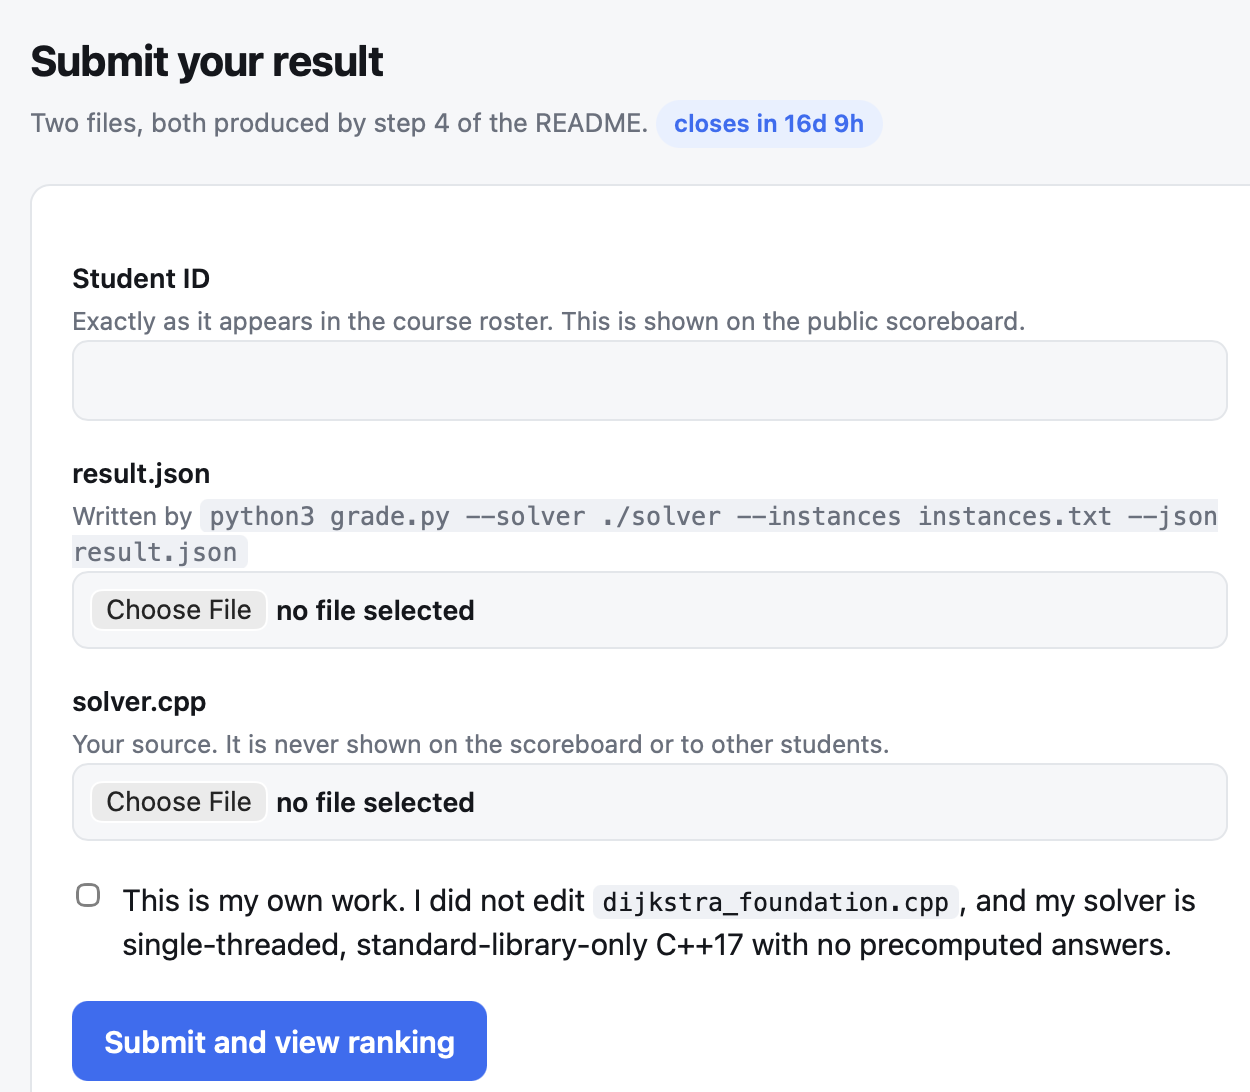
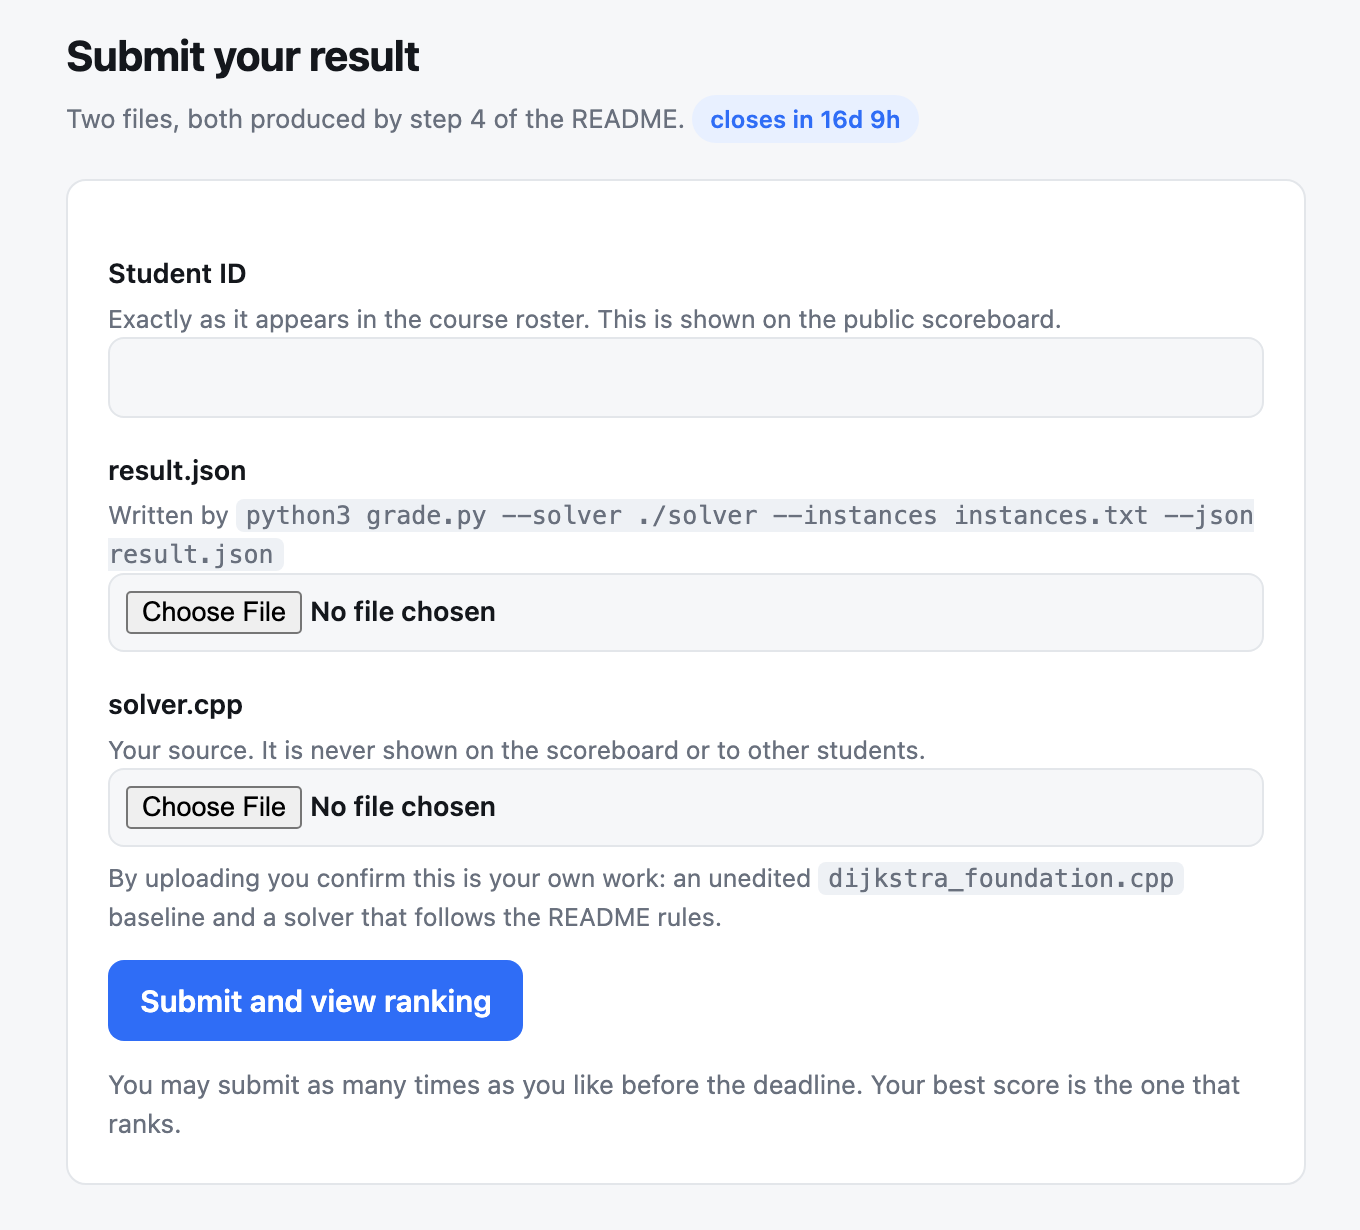
Drop the honour-code checkbox from the upload walkthrough
The scoreboard form now shows a one-line note instead of a required
checkbox; update step 4 and retake the submit-form screenshot.

Claude-Session: https://claude.ai/code/session_01PmL41dnLQ8uYBeBxyV54v6

diff --git a/README.md b/README.md
@@ -119,9 +119,9 @@ the two files from the same run, not a `result.json` from one attempt beside a
 2. Enter your **Student ID** exactly as it appears in the course roster. It is
    shown publicly on the board.
 3. Choose your `result.json` and your `solver.cpp`.
-4. Tick the honour-code box and click **Submit and view ranking**.
+4. Click **Submit and view ranking**.
 
-![The submit form: Student ID, result.json, solver.cpp, honour-code checkbox](slides/submit_form.png)
+![The submit form: Student ID, result.json, solver.cpp](slides/submit_form.png)
 
 The server re-derives your score from the per-instance times in `result.json`
 and ranks on that, then redirects you to the board with your row highlighted.
